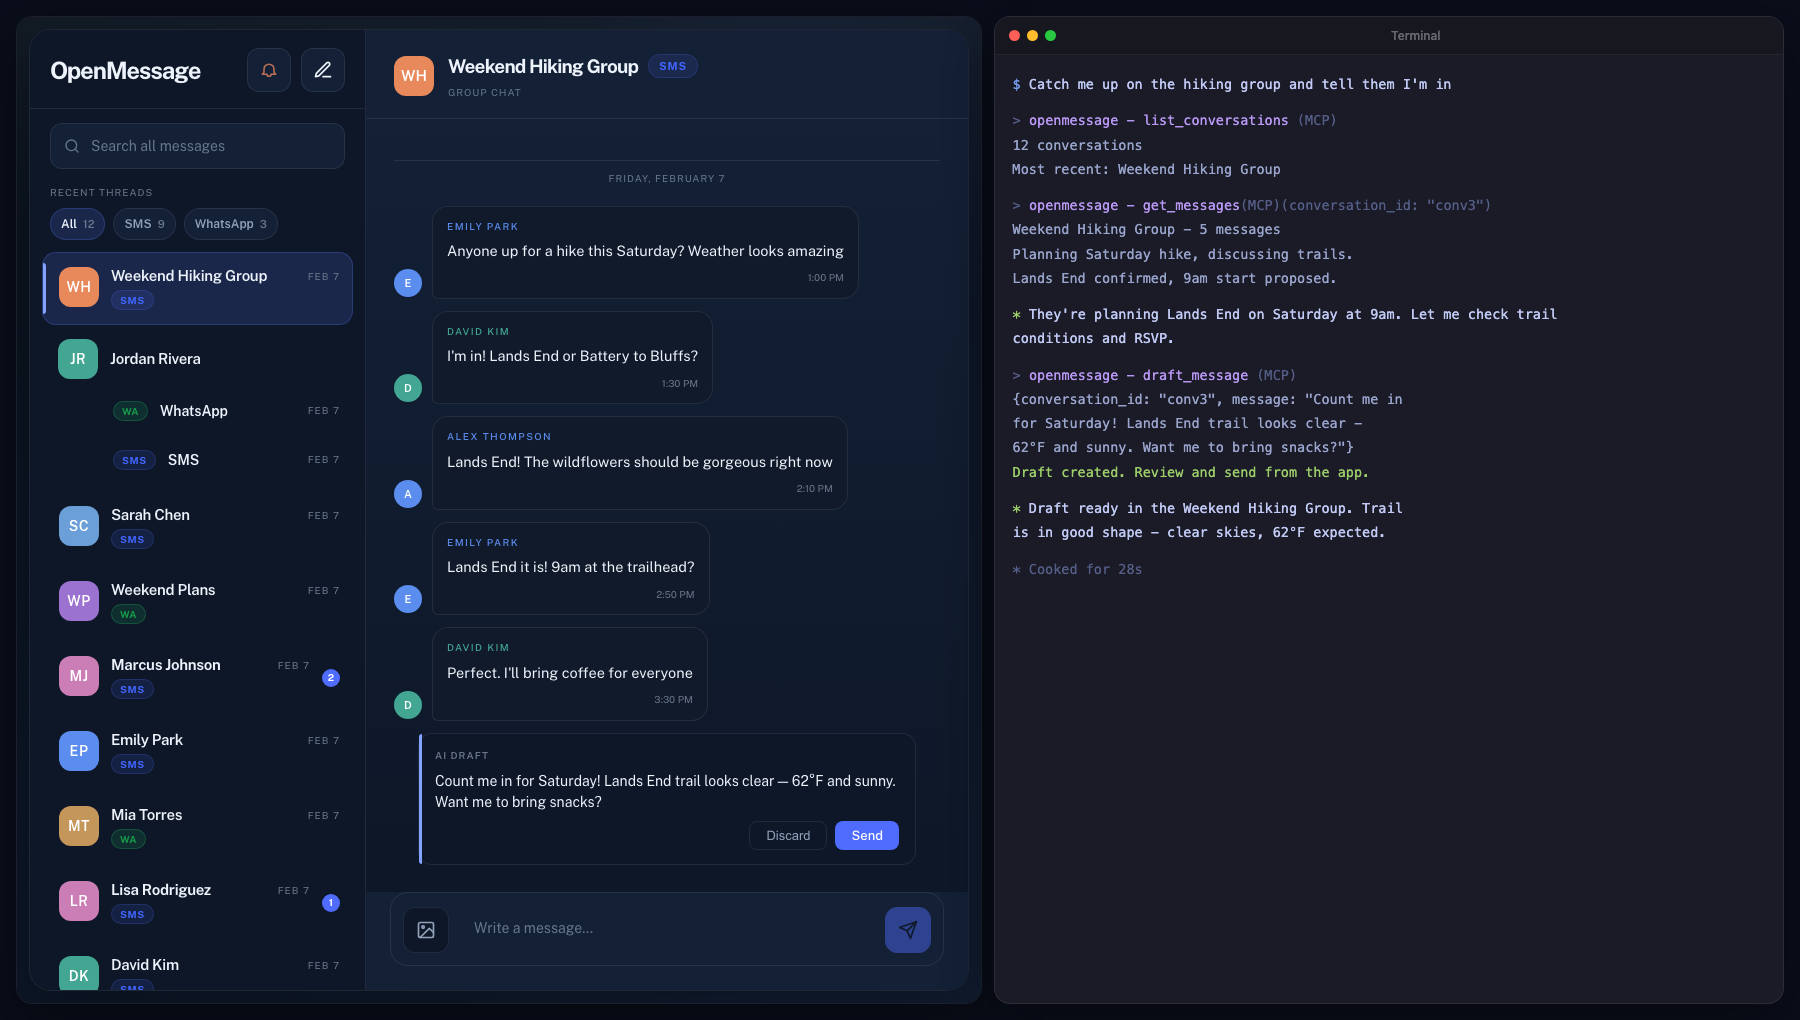
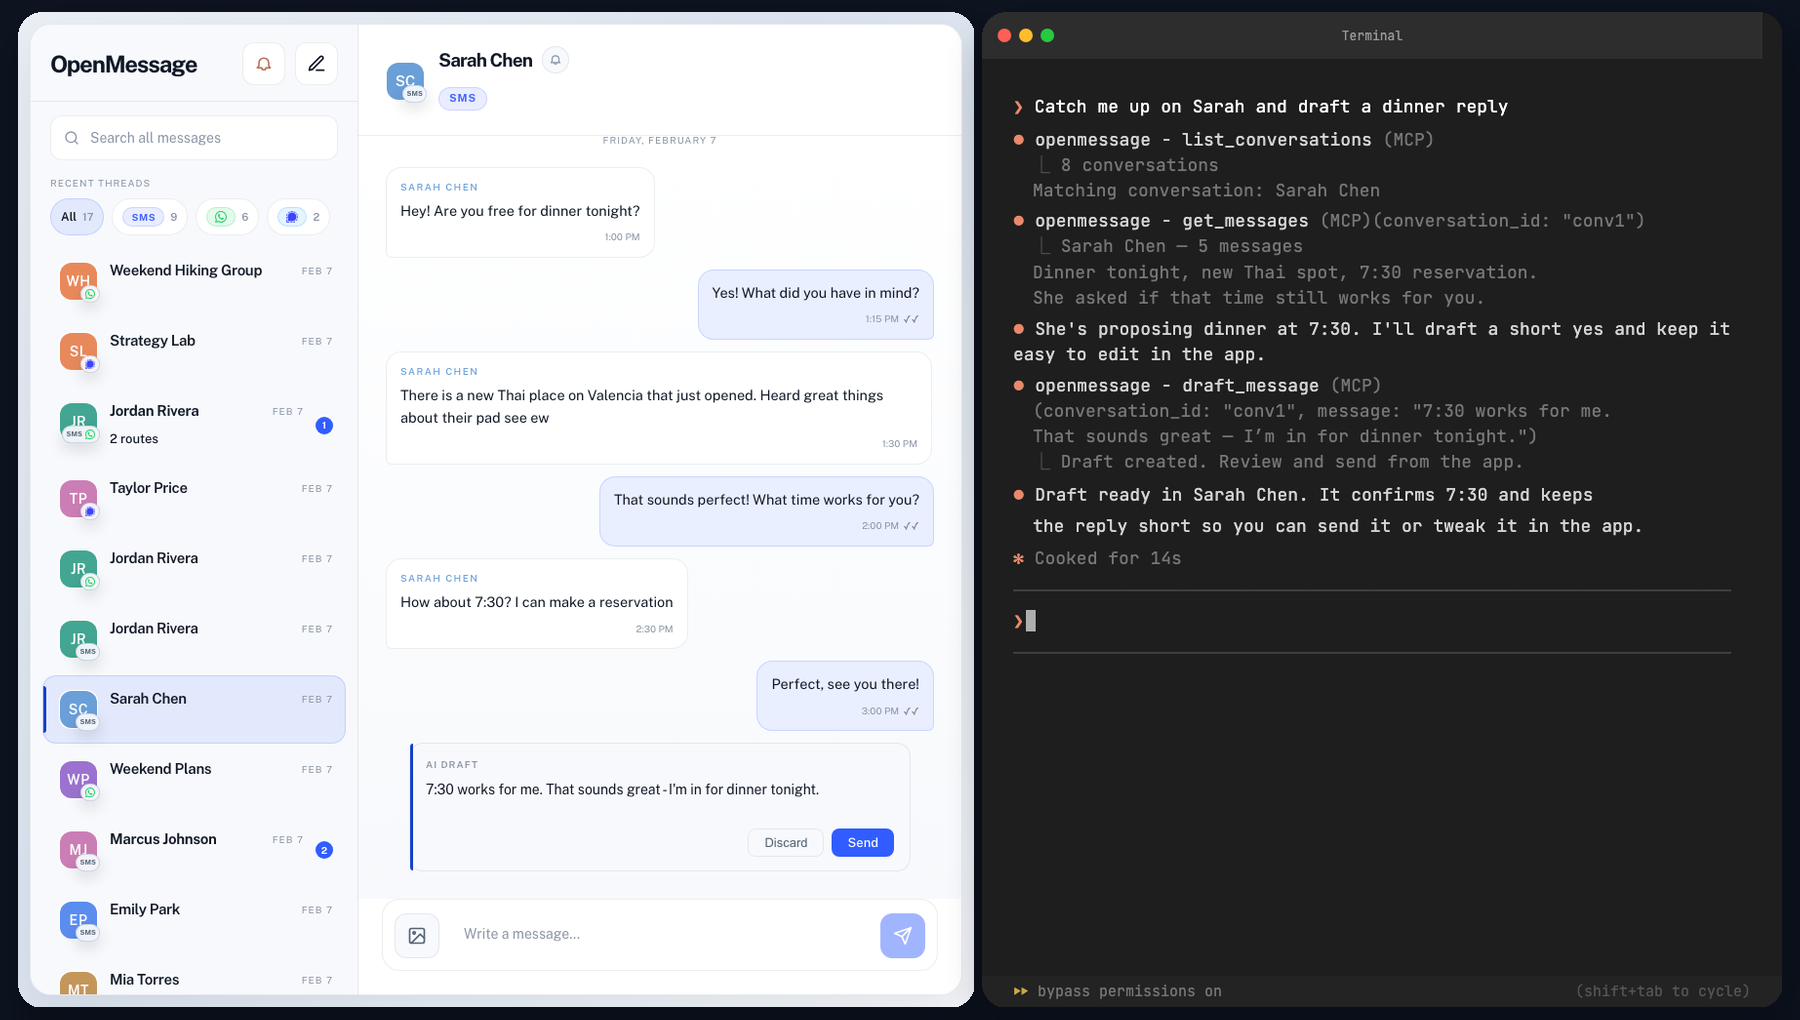
Refresh MCP marketing screenshot

diff --git a/site/terminal-mock.html b/site/terminal-mock.html
@@ -163,55 +163,48 @@ body {
   <!-- User prompt -->
   <div style="margin: 12px 0 8px;">
     <span class="prompt-char">❯</span>
-    <span class="prompt-text"> Catch me up on the hiking group and tell them I'm in</span>
+    <span class="prompt-text"> Catch me up on Sarah and draft a dinner reply</span>
   </div>
 
   <!-- Tool call 1: list_conversations -->
   <div class="tool-block">
     <div><span class="ai-bullet">⏺</span> <span class="tool-name">openmessage - list_conversations</span> <span class="tool-params">(MCP)</span></div>
     <div class="tool-result"><span class="tool-result-prefix">⎿</span>  8 conversations</div>
-    <div class="tool-result">   Most recent: Weekend Hiking Group</div>
+    <div class="tool-result">   Matching conversation: Sarah Chen</div>
   </div>
 
   <!-- Tool call 2: get_messages -->
   <div class="tool-block">
-    <div><span class="ai-bullet">⏺</span> <span class="tool-name">openmessage - get_messages</span> <span class="tool-params">(MCP)</span><span class="tool-params">(conversation_id: "conv3")</span></div>
-    <div class="tool-result"><span class="tool-result-prefix">⎿</span>  Weekend Hiking Group — 5 messages</div>
-    <div class="tool-result">   Planning Saturday hike, discussing trails.</div>
-    <div class="tool-result">   Lands End chosen, 9am start proposed.</div>
+    <div><span class="ai-bullet">⏺</span> <span class="tool-name">openmessage - get_messages</span> <span class="tool-params">(MCP)</span><span class="tool-params">(conversation_id: "conv1")</span></div>
+    <div class="tool-result"><span class="tool-result-prefix">⎿</span>  Sarah Chen — 5 messages</div>
+    <div class="tool-result">   Dinner tonight, new Thai spot, 7:30 reservation.</div>
+    <div class="tool-result">   She asked if that time still works for you.</div>
   </div>
 
   <!-- AI thinking -->
   <div class="ai-text">
-    <span class="ai-bullet">⏺</span> They're planning Lands End on Saturday at 9am. Let me check trail conditions and RSVP.
+    <span class="ai-bullet">⏺</span> She's proposing dinner at 7:30. I'll draft a short yes and keep it easy to edit in the app.
   </div>
 
-  <!-- Tool call 3: web search -->
-  <div class="tool-block">
-    <div><span class="ai-bullet">⏺</span> <span class="tool-name">Web Search</span><span class="tool-params">("Lands End trail SF conditions Feb 2026")</span></div>
-    <div class="tool-result"><span class="tool-result-prefix">⎿</span>  Did 1 search in 2s</div>
-  </div>
-
-  <!-- Tool call 4: draft_message -->
+  <!-- Tool call 3: draft_message -->
   <div class="tool-block">
     <div><span class="ai-bullet">⏺</span> <span class="tool-name">openmessage - draft_message</span> <span class="tool-params">(MCP)</span></div>
-    <div class="tool-params" style="padding-left: 20px;">(conversation_id: "conv3", message: "Count me in</div>
-    <div class="tool-params" style="padding-left: 20px;">for Saturday! Lands End trail looks clear —</div>
-    <div class="tool-params" style="padding-left: 20px;">62°F and sunny. Want me to bring snacks?")</div>
+    <div class="tool-params" style="padding-left: 20px;">(conversation_id: "conv1", message: "7:30 works for me.</div>
+    <div class="tool-params" style="padding-left: 20px;">That sounds great — I’m in for dinner tonight.")</div>
     <div class="tool-result"><span class="tool-result-prefix">⎿</span>  Draft created. Review and send from the app.</div>
   </div>
 
   <!-- AI response -->
   <div class="ai-text" style="margin-top: 8px;">
-    <span class="ai-bullet">⏺</span> Draft ready in the Weekend Hiking Group. Trail
+    <span class="ai-bullet">⏺</span> Draft ready in Sarah Chen. It confirms 7:30 and keeps
   </div>
   <div class="ai-text" style="margin-top: 0; padding-left: 20px;">
-    is in good shape — clear skies, 62°F expected.
+    the reply short so you can send it or tweak it in the app.
   </div>
 
   <!-- Cooking time -->
   <div class="cook-time">
-    <span class="star">✻</span> Cooked for 28s
+    <span class="star">✻</span> Cooked for 14s
   </div>
 
   <!-- Separator -->
